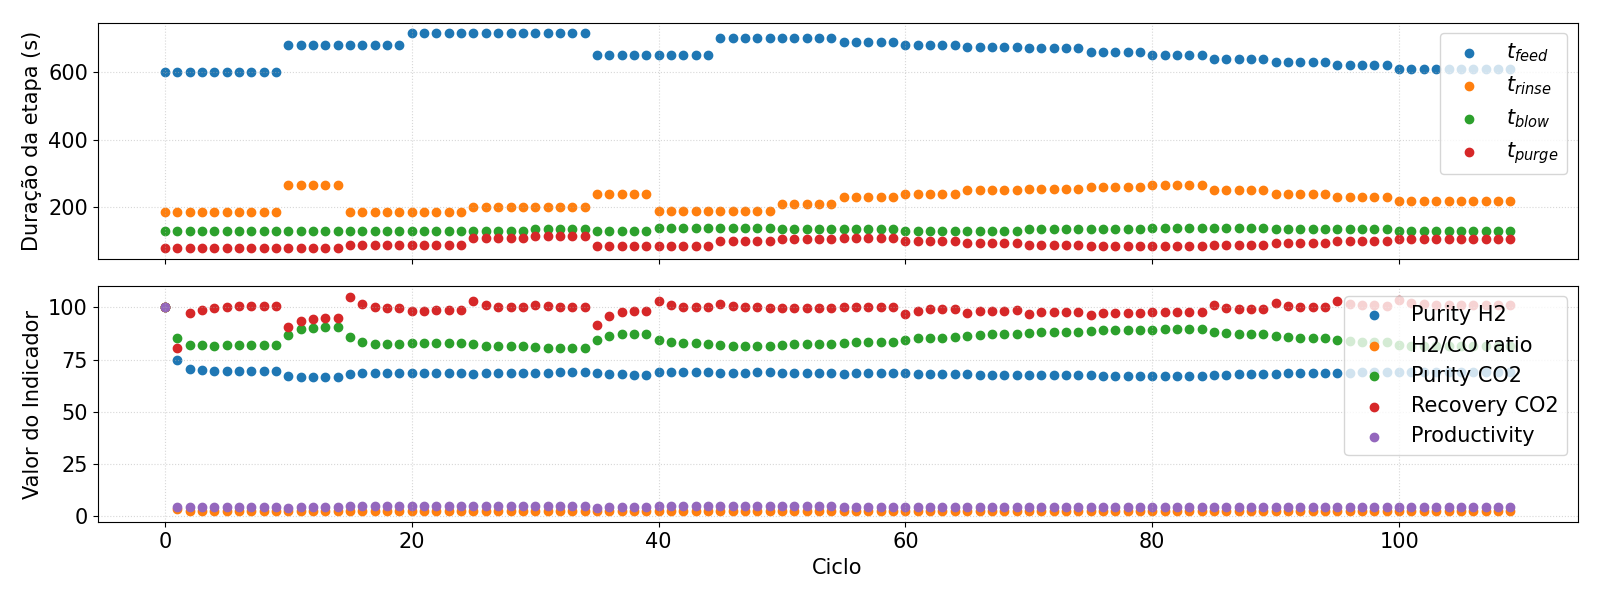
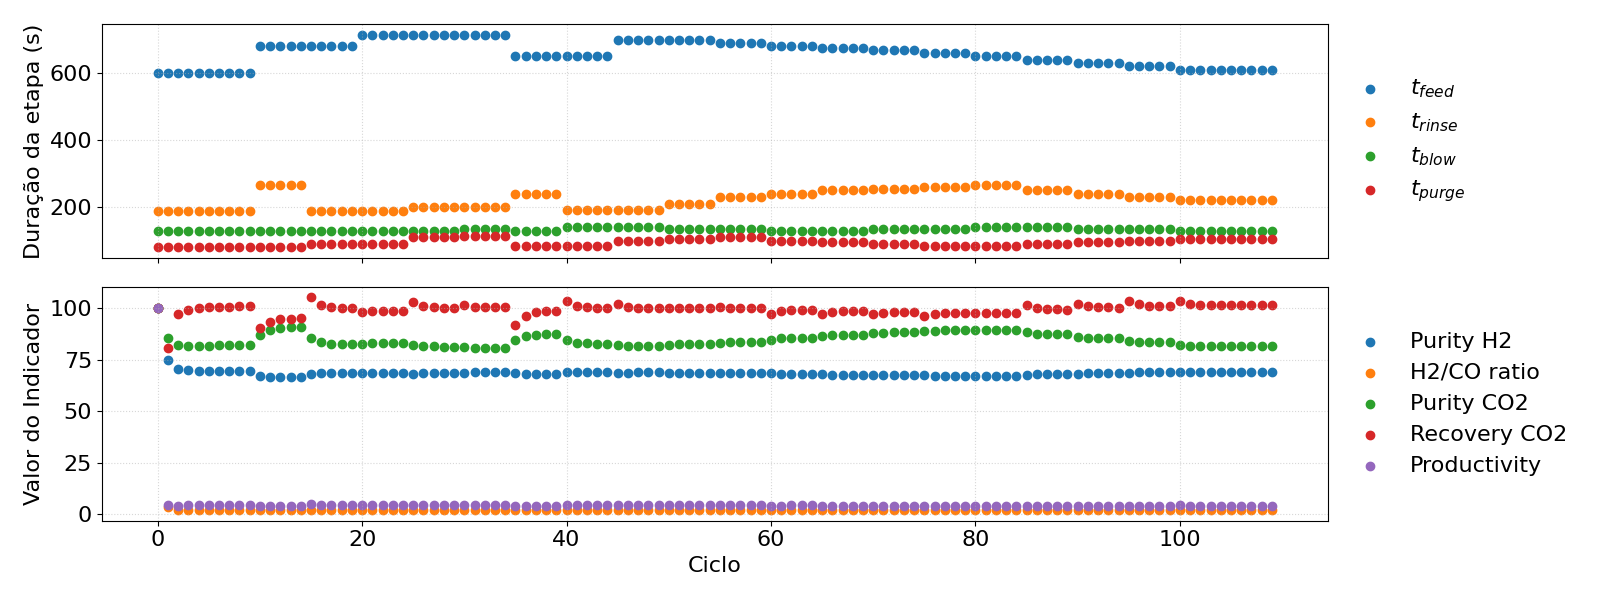
Improve plots

diff --git a/src/lib/plot.py b/src/lib/plot.py
@@ -6,37 +6,53 @@ plt.rcParams.update(
         "figure.autolayout": True,
         "axes.grid": True,
         # 'figure.dpi': 300,
-        "font.size": 15,
-        "legend.loc": "upper right",
+        "font.size": 16,
     }
 )
 
 
+def legend_outside(ax: plt.Axes):
+    ax.legend(loc="center left", bbox_to_anchor=(1, 0.5), frameon=False)
+
+
 def plot_comparison(cycles, real_y, model_y, model_name):
-    plt.figure()
+    _, axes = plt.subplots(2, 1, sharex=True)
+    variables = [
+        ("Purity H2", "tab:blue", 0),
+        ("H2/CO ratio", "tab:orange", 1),
+        ("Purity CO2", "tab:green", 2),
+        ("Recovery CO2", "tab:red", 3),
+        ("Productivity", "tab:purple", 4),
+    ]
 
-    plt.scatter(cycles, real_y[:, 0], label="Purity H2")
-    plt.plot(cycles, model_y[:, 0], label=f"Purity H2 ({model_name})")
+    group1 = [0, 2, 3]
+    ymin = min(real_y[:, variables[i][2]].min() for i in group1)
+    ymax = max(real_y[:, variables[i][2]].max() for i in group1)
+    ax = axes[0]
+    for i in group1:
+        label, color, idx = variables[i]
+        ax.scatter(cycles, real_y[:, idx], label=f"{label} (gPROMS)", color=color)
+        ax.plot(cycles, model_y[:, idx], label=f"{label} ({model_name})", color=color)
+    ax.set_ylim(ymin * 0.9, ymax * 1.1)
+    ax.set_ylabel("Valores")
+    legend_outside(ax)
 
-    plt.scatter(cycles, real_y[:, 1], label="H2/CO ratio")
-    plt.plot(cycles, model_y[:, 1], label=f"H2/CO ratio ({model_name})")
+    group2 = [1, 4]
+    ymin = min(real_y[:, variables[i][2]].min() for i in group2)
+    ymax = max(real_y[:, variables[i][2]].max() for i in group2)
+    ax = axes[1]
+    for i in group2:
+        ax = axes[1]
+        label, color, idx = variables[i]
+        ax.scatter(cycles, real_y[:, idx], label=f"{label} (gPROMS)", color=color)
+        ax.plot(cycles, model_y[:, idx], label=f"{label} ({model_name})", color=color)
+    ax.set_ylim(ymin * 0.9, ymax * 1.1)
+    ax.set_ylabel("Valores")
+    legend_outside(ax)
 
-    plt.scatter(cycles, real_y[:, 2], label="Purity CO2")
-    plt.plot(cycles, model_y[:, 2], label=f"Purity CO2 ({model_name})")
+    axes[-1].set_xlabel("Ciclo")
 
-    plt.scatter(cycles, real_y[:, 3], label="Recovery CO2")
-    plt.plot(cycles, model_y[:, 3], label=f"Recovery CO2 ({model_name})")
-
-    plt.scatter(cycles, real_y[:, 4], label="Productivity")
-    plt.plot(cycles, model_y[:, 4], label=f"Productivity ({model_name})")
-
-    plt.ylim(0, real_y.max() * 1.1)
-
-    plt.xlabel("Ciclo")
-    plt.ylabel("Saída")
-    plt.legend()
     # plt.show()
-
     plt.savefig(f"../figures/comparision-{model_name}.png")
     plt.close()
 
